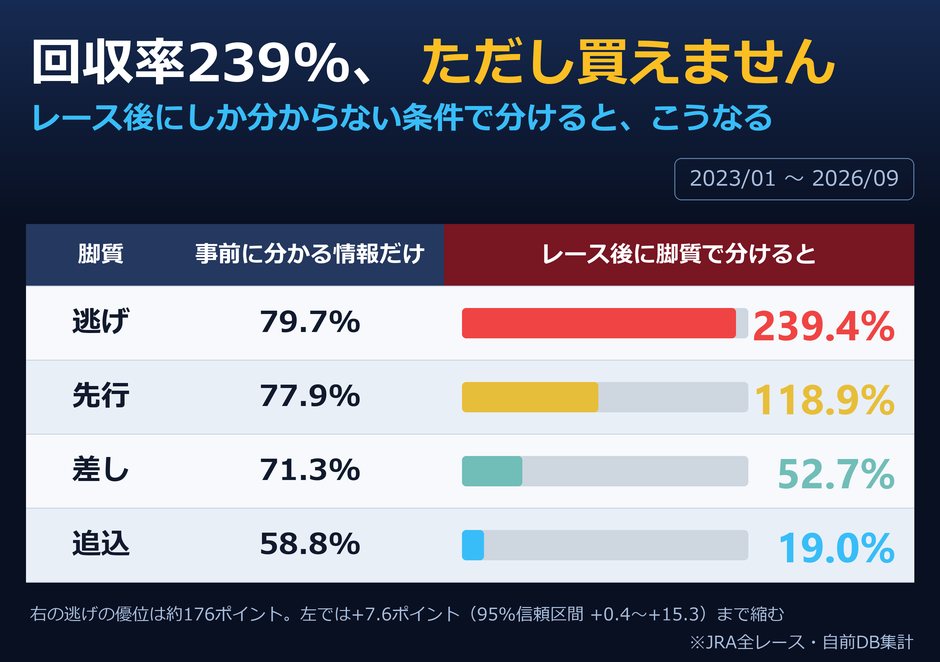
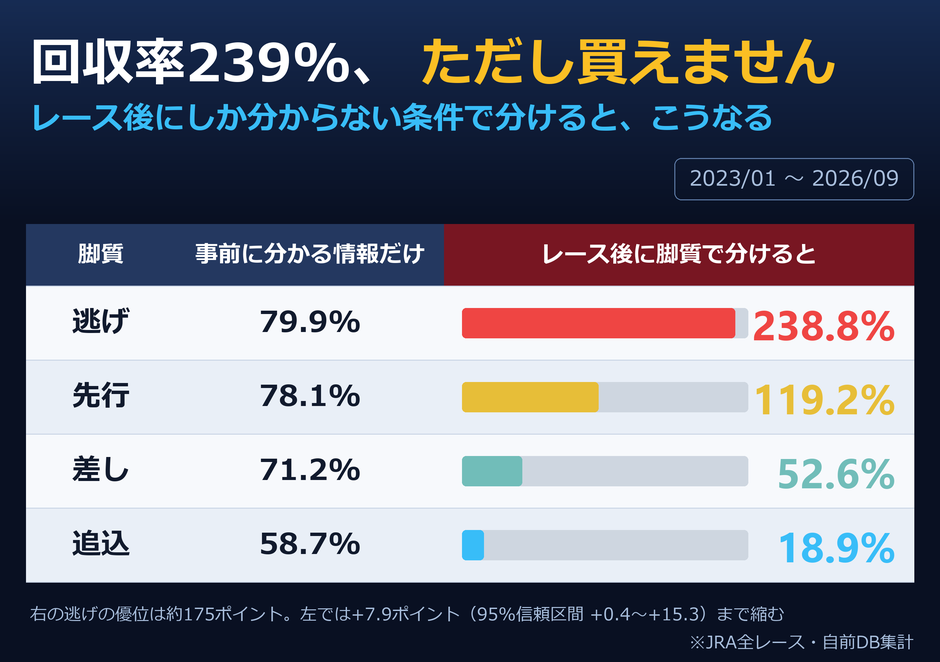
update: 20260919 の勝率予報と検証記録を反映

diff --git a/race/20260919.html b/race/20260919.html
@@ -1,0 +1,124 @@
+<!doctype html>
+<html lang="ja"><head>
+<meta charset="utf-8">
+<meta name="viewport" content="width=device-width,initial-scale=1">
+<title>2026/9/19(土)の勝率予報 — 全23レース</title>
+<meta name="description" content="2026/9/19(土)の全23レース、出走全頭の勝率をAIが発走前に計算した一覧です。">
+<meta property="og:type" content="article">
+<meta property="og:title" content="2026/9/19(土)の勝率予報 — 全23レース">
+<meta property="og:description" content="中山・阪神 全23レース、出走全頭の勝率です。すべて発走前に計算しています。">
+<meta property="og:url" content="https://akiaki4646.github.io/race/20260919.html">
+<meta property="og:image" content="https://akiaki4646.github.io/ogp_20260919.png">
+<meta name="twitter:card" content="summary_large_image">
+<style>
+:root{--bg:#0b1222;--card:#131c31;--ink:#e8eefb;--dim:#93a6c4;--sky:#38bdf8;--line:#24324e}
+*{box-sizing:border-box}
+body{margin:0;background:var(--bg);color:var(--ink);
+     font-family:-apple-system,"Segoe UI","Hiragino Kaku Gothic ProN","Noto Sans JP",sans-serif;
+     line-height:1.75}
+.wrap{max-width:760px;margin:0 auto;padding:0 20px 64px}
+header{padding:36px 0 8px}
+header img{width:100%;border-radius:14px;display:block}
+/* 見出しに本文と同じ 1.75 を当てると、和文の長い見出しが間延びして
+   モバイルではファーストビューの半分を占める (実測: h1 24.8px に行間 43.4px)。
+   見出しは 1.3 前後に締める。 */
+h1{font-size:1.55rem;margin:24px 0 6px;letter-spacing:.01em;line-height:1.35}
+h2{font-size:1.15rem;margin:40px 0 12px;padding-bottom:8px;
+   border-bottom:1px solid var(--line);line-height:1.4}
+h3{line-height:1.4}
+p{margin:12px 0}
+/* 本文は必ず --ink。--dim は注記・キャプション・補助情報だけに使う。
+   地の文に --dim を当てると、規格上のコントラストは足りていても
+   彩度の低い青が暗い青に乗って「かすむ」(トップだけ --dim になっていた)。 */
+.lead{color:var(--ink)}
+.note,figcaption,.src{color:var(--dim);font-size:.88rem}
+.card{background:var(--card);border:1px solid var(--line);border-radius:12px;padding:18px 20px;margin:18px 0}
+.kpi{display:flex;flex-wrap:wrap;gap:14px;margin:18px 0}
+.kpi div{flex:1 1 150px;background:var(--card);border:1px solid var(--line);
+         border-radius:12px;padding:14px 16px}
+/* 大きい数字をネオンのアクセント色で光らせると、統計の記録ではなく
+   ゲームのスコア表示に見える。数字は本文色にし、アクセントは
+   リンクなど「押せるもの」の合図だけに使う。 */
+.kpi b{display:block;font-size:1.5rem;color:var(--ink);line-height:1.3}
+.kpi span{color:var(--dim);font-size:.85rem}
+table{width:100%;border-collapse:collapse;margin:14px 0;font-variant-numeric:tabular-nums}
+th,td{padding:9px 8px;border-bottom:1px solid var(--line);text-align:right}
+th:first-child,td:first-child{text-align:left}
+th{color:var(--dim);font-weight:600;font-size:.85rem}
+.gap{color:var(--dim)}
+tr.thin td{color:var(--dim);opacity:.72}
+tr.thin td:first-child::after{content:" *";color:var(--dim)}
+a{color:var(--sky)}
+footer{margin-top:52px;padding-top:18px;border-top:1px solid var(--line);
+       color:var(--dim);font-size:.85rem}
+/* 発光する輪郭のカプセルボタンは煽り系サイトの語彙。
+   面で置いた落ち着いたボタンにして、角も丸めすぎない。 */
+.follow{display:flex;gap:10px;flex-wrap:wrap;margin:20px 0}
+.follow a{display:inline-block;padding:10px 16px;border:1px solid var(--line);
+         background:var(--card);border-radius:8px;color:var(--sky);
+         text-decoration:none;font-size:.9rem}
+.follow a:hover{border-color:var(--sky)}
+@media(max-width:520px){.kpi div{flex:1 1 100%}}
+
+.adbox{margin:28px 0}
+.adlabel{display:block;font-size:.72rem;color:var(--dim);letter-spacing:.08em;
+margin-bottom:6px}
+
+.race{background:var(--card);border:1px solid var(--line);border-radius:12px;
+      padding:16px 18px;margin:16px 0}
+.race h3{margin:0 0 4px;font-size:1.05rem}
+.race .meta{color:var(--dim);font-size:.85rem;margin:0 0 10px}
+.race table{margin:0}
+.race td.mk{width:2.2em;text-align:center;color:var(--sky);font-weight:700}
+.race td.no{width:2.6em;text-align:right;color:var(--dim);font-variant-numeric:tabular-nums}
+.race td.nm{text-align:left}
+.race td.pb{text-align:right;font-variant-numeric:tabular-nums;font-weight:600}
+.race tr.top td{color:var(--ink)}
+.race tr:not(.top) td{color:var(--dim)}
+.done{opacity:.55}
+.badge{display:inline-block;font-size:.72rem;border:1px solid var(--line);
+       border-radius:999px;padding:1px 8px;margin-left:6px;color:var(--dim)}
+.adslot{margin:24px 0;min-height:0}
+.nav{display:flex;gap:12px;flex-wrap:wrap;margin:18px 0}
+.nav a{display:inline-block;padding:9px 16px;border:1px solid var(--line);
+       background:var(--card);border-radius:8px;color:var(--sky);
+       text-decoration:none;font-size:.88rem}
+.nav a:hover{border-color:var(--sky)}
+.archive li{margin:6px 0}
+</style>
+<script async src="https://pagead2.googlesyndication.com/pagead/js/adsbygoogle.js?client=ca-pub-3010782230345323" crossorigin="anonymous"></script>
+<script async src="https://www.googletagmanager.com/gtag/js?id=G-JRQX40LQVN"></script>
+<script>window.dataLayer=window.dataLayer||[];function gtag(){dataLayer.push(arguments);}gtag('js',new Date());gtag('config','G-JRQX40LQVN');</script>
+</head><body><div class="wrap">
+
+<h1>2026/9/19(土) の勝率予報</h1>
+<p class="lead">中山・阪神 全23レース、出走全頭の勝率です。
+すべて<strong>発走前</strong>に計算し、そのまま公開しています。</p>
+
+<div class="nav">
+  <a href="../index.html">答え合わせの記録を見る</a>
+  <a href="./index.html">過去の予報一覧</a>
+</div>
+
+<div class="adslot"></div>
+
+<div class='race' id='061'><h3>中山1R</h3><p class='meta'>10:00 発走 / 9頭</p><table><tbody><tr class='top'><td class='mk'>◎</td><td class='no'>09</td><td class='nm'>スマートブライド</td><td class='pb'>72.1%</td></tr><tr class='top'><td class='mk'>○</td><td class='no'>01</td><td class='nm'>サリードゥ</td><td class='pb'>12.2%</td></tr><tr class='top'><td class='mk'>▲</td><td class='no'>05</td><td class='nm'>ルスデルカミーノ</td><td class='pb'>6.6%</td></tr><tr><td class='mk'></td><td class='no'>02</td><td class='nm'>ジンクピリチオン</td><td class='pb'>4.7%</td></tr><tr><td class='mk'></td><td class='no'>04</td><td class='nm'>ソナタテソーロ</td><td class='pb'>2.2%</td></tr><tr><td class='mk'></td><td class='no'>03</td><td class='nm'>ポッドエステラ</td><td class='pb'>1.1%</td></tr><tr><td class='mk'></td><td class='no'>07</td><td class='nm'>カンタベリートップ</td><td class='pb'>0.7%</td></tr><tr><td class='mk'></td><td class='no'>08</td><td class='nm'>マリノフスキー</td><td class='pb'>0.3%</td></tr><tr><td class='mk'></td><td class='no'>06</td><td class='nm'>カシノカゲマル</td><td class='pb'>0.1%</td></tr></tbody></table></div><div class='race' id='062'><h3>中山2R</h3><p class='meta'>10:30 発走 / 8頭</p><table><tbody><tr class='top'><td class='mk'>◎</td><td class='no'>04</td><td class='nm'>テンユメノオーロラ</td><td class='pb'>61.5%</td></tr><tr class='top'><td class='mk'>○</td><td class='no'>08</td><td class='nm'>アフィーリア</td><td class='pb'>19.7%</td></tr><tr class='top'><td class='mk'>▲</td><td class='no'>03</td><td class='nm'>ハイビスカス</td><td class='pb'>9.0%</td></tr><tr><td class='mk'></td><td class='no'>07</td><td class='nm'>バミューダブーケ</td><td class='pb'>4.4%</td></tr><tr><td class='mk'></td><td class='no'>06</td><td class='nm'>ロンドンコーリング</td><td class='pb'>2.2%</td></tr><tr><td class='mk'></td><td class='no'>02</td><td class='nm'>ビップルーチェ</td><td class='pb'>1.7%</td></tr><tr><td class='mk'></td><td class='no'>01</td><td class='nm'>マホロ</td><td class='pb'>1.0%</td></tr><tr><td class='mk'></td><td class='no'>05</td><td class='nm'>ピーエムリンダ</td><td class='pb'>0.5%</td></tr></tbody></table></div><div class='race' id='063'><h3>中山3R</h3><p class='meta'>11:00 発走 / 12頭</p><table><tbody><tr class='top'><td class='mk'>◎</td><td class='no'>05</td><td class='nm'>トルタパスカリーナ</td><td class='pb'>37.5%</td></tr><tr class='top'><td class='mk'>○</td><td class='no'>09</td><td class='nm'>ノルトハウゼン</td><td class='pb'>12.4%</td></tr><tr class='top'><td class='mk'>▲</td><td class='no'>11</td><td class='nm'>イニシャルポイント</td><td class='pb'>11.9%</td></tr><tr><td class='mk'></td><td class='no'>06</td><td class='nm'>コスモシグナス</td><td class='pb'>9.7%</td></tr><tr><td class='mk'></td><td class='no'>02</td><td class='nm'>セイウンウィルド</td><td class='pb'>9.7%</td></tr><tr><td class='mk'></td><td class='no'>08</td><td class='nm'>ワンキャンパス</td><td class='pb'>5.8%</td></tr><tr><td class='mk'></td><td class='no'>01</td><td class='nm'>サノノファイター</td><td class='pb'>5.8%</td></tr><tr><td class='mk'></td><td class='no'>10</td><td class='nm'>ショウナンワンパク</td><td class='pb'>4.0%</td></tr><tr><td class='mk'></td><td class='no'>03</td><td class='nm'>エルシオン</td><td class='pb'>1.3%</td></tr><tr><td class='mk'></td><td class='no'>12</td><td class='nm'>コーズサム</td><td class='pb'>1.0%</td></tr><tr><td class='mk'></td><td class='no'>04</td><td class='nm'>テイクケア</td><td class='pb'>0.6%</td></tr><tr><td class='mk'></td><td class='no'>07</td><td class='nm'>アミノショコラ</td><td class='pb'>0.4%</td></tr></tbody></table></div><div class='race' id='064'><h3>中山4R</h3><p class='meta'>11:35 発走 / 16頭</p><table><tbody><tr class='top'><td class='mk'>◎</td><td class='no'>06</td><td class='nm'>ルナロマンティカ</td><td class='pb'>18.8%</td></tr><tr class='top'><td class='mk'>○</td><td class='no'>02</td><td class='nm'>ゼーゲルン</td><td class='pb'>17.9%</td></tr><tr class='top'><td class='mk'>▲</td><td class='no'>10</td><td class='nm'>フクチャンヨシ</td><td class='pb'>11.6%</td></tr><tr><td class='mk'></td><td class='no'>01</td><td class='nm'>ロジパンドラ</td><td class='pb'>8.3%</td></tr><tr><td class='mk'></td><td class='no'>05</td><td class='nm'>シルバーノリダー</td><td class='pb'>8.2%</td></tr><tr><td class='mk'></td><td class='no'>14</td><td class='nm'>ペルラビアンカ</td><td class='pb'>7.3%</td></tr><tr><td class='mk'></td><td class='no'>13</td><td class='nm'>シクラメン</td><td class='pb'>5.2%</td></tr><tr><td class='mk'></td><td class='no'>03</td><td class='nm'>シウンハゴロモ</td><td class='pb'>4.7%</td></tr><tr><td class='mk'></td><td class='no'>09</td><td class='nm'>ニホンノヨアケゼヨ</td><td class='pb'>3.8%</td></tr><tr><td class='mk'></td><td class='no'>12</td><td class='nm'>ニシノハナカケル</td><td class='pb'>2.8%</td></tr><tr><td class='mk'></td><td class='no'>11</td><td class='nm'>プリマラクーン</td><td class='pb'>2.8%</td></tr><tr><td class='mk'></td><td class='no'>16</td><td class='nm'>キャンディメモリー</td><td class='pb'>2.8%</td></tr><tr><td class='mk'></td><td class='no'>08</td><td class='nm'>スヴァラ</td><td class='pb'>2.3%</td></tr><tr><td class='mk'></td><td class='no'>07</td><td class='nm'>アマルレイナ</td><td class='pb'>1.5%</td></tr><tr><td class='mk'></td><td class='no'>04</td><td class='nm'>サンエルディーケー</td><td class='pb'>1.4%</td></tr><tr><td class='mk'></td><td class='no'>15</td><td class='nm'>イキデイナセ</td><td class='pb'>0.9%</td></tr></tbody></table></div><div class='race' id='065'><h3>中山5R</h3><p class='meta'>12:25 発走 / 12頭</p><table><tbody><tr class='top'><td class='mk'>◎</td><td class='no'>06</td><td class='nm'>プルヴィナル</td><td class='pb'>40.1%</td></tr><tr class='top'><td class='mk'>○</td><td class='no'>02</td><td class='nm'>レインボーフライト</td><td class='pb'>30.3%</td></tr><tr class='top'><td class='mk'>▲</td><td class='no'>07</td><td class='nm'>ルージュルフラン</td><td class='pb'>7.1%</td></tr><tr><td class='mk'></td><td class='no'>10</td><td class='nm'>セイウンガレス</td><td class='pb'>4.7%</td></tr><tr><td class='mk'></td><td class='no'>09</td><td class='nm'>フレッシュオレンジ</td><td class='pb'>4.5%</td></tr><tr><td class='mk'></td><td class='no'>11</td><td class='nm'>セイウンランウェイ</td><td class='pb'>3.2%</td></tr><tr><td class='mk'></td><td class='no'>01</td><td class='nm'>ディヴァンパーレ</td><td class='pb'>2.9%</td></tr><tr><td class='mk'></td><td class='no'>03</td><td class='nm'>トパーズプレミア</td><td class='pb'>2.9%</td></tr><tr><td class='mk'></td><td class='no'>08</td><td class='nm'>ドッグズノーズ</td><td class='pb'>1.7%</td></tr><tr><td class='mk'></td><td class='no'>05</td><td class='nm'>ツェルプスト</td><td class='pb'>1.3%</td></tr><tr><td class='mk'></td><td class='no'>04</td><td class='nm'>メイダイ</td><td class='pb'>1.0%</td></tr><tr><td class='mk'></td><td class='no'>12</td><td class='nm'>バーチディダーマ</td><td class='pb'>0.5%</td></tr></tbody></table></div><div class='race' id='066'><h3>中山6R</h3><p class='meta'>12:55 発走 / 12頭</p><table><tbody><tr class='top'><td class='mk'>◎</td><td class='no'>10</td><td class='nm'>ユウライクスター</td><td class='pb'>39.3%</td></tr><tr class='top'><td class='mk'>○</td><td class='no'>11</td><td class='nm'>ブレイズリー</td><td class='pb'>14.3%</td></tr><tr class='top'><td class='mk'>▲</td><td class='no'>12</td><td class='nm'>イトウカカリチョウ</td><td class='pb'>10.3%</td></tr><tr><td class='mk'></td><td class='no'>09</td><td class='nm'>サクセスメロディー</td><td class='pb'>8.6%</td></tr><tr><td class='mk'></td><td class='no'>06</td><td class='nm'>ライジングファイト</td><td class='pb'>6.9%</td></tr><tr><td class='mk'></td><td class='no'>03</td><td class='nm'>エクランレーヴ</td><td class='pb'>5.4%</td></tr><tr><td class='mk'></td><td class='no'>02</td><td class='nm'>キタノエフロレス</td><td class='pb'>3.8%</td></tr><tr><td class='mk'></td><td class='no'>08</td><td class='nm'>ローブリッター</td><td class='pb'>3.1%</td></tr><tr><td class='mk'></td><td class='no'>05</td><td class='nm'>ニシノイケガミ</td><td class='pb'>3.1%</td></tr><tr><td class='mk'></td><td class='no'>04</td><td class='nm'>ルスカーレット</td><td class='pb'>1.9%</td></tr><tr><td class='mk'></td><td class='no'>01</td><td class='nm'>ムードメーカー</td><td class='pb'>1.9%</td></tr><tr><td class='mk'></td><td class='no'>07</td><td class='nm'>ケイツーズウォティ</td><td class='pb'>1.1%</td></tr></tbody></table></div><div class='race' id='067'><h3>中山7R</h3><p class='meta'>13:25 発走 / 14頭</p><table><tbody><tr class='top'><td class='mk'>◎</td><td class='no'>14</td><td class='nm'>デールエルバハリ</td><td class='pb'>20.5%</td></tr><tr class='top'><td class='mk'>○</td><td class='no'>06</td><td class='nm'>エクストラプッシュ</td><td class='pb'>13.4%</td></tr><tr class='top'><td class='mk'>▲</td><td class='no'>05</td><td class='nm'>サトノリアン</td><td class='pb'>13.3%</td></tr><tr><td class='mk'></td><td class='no'>02</td><td class='nm'>ステイアンビシャス</td><td class='pb'>11.4%</td></tr><tr><td class='mk'></td><td class='no'>11</td><td class='nm'>タケルゴールド</td><td class='pb'>7.1%</td></tr><tr><td class='mk'></td><td class='no'>09</td><td class='nm'>ブライトラン</td><td class='pb'>6.4%</td></tr><tr><td class='mk'></td><td class='no'>03</td><td class='nm'>ブレイクザアイス</td><td class='pb'>6.4%</td></tr><tr><td class='mk'></td><td class='no'>12</td><td class='nm'>リオンサーガ</td><td class='pb'>5.3%</td></tr><tr><td class='mk'></td><td class='no'>04</td><td class='nm'>ターフクリスタル</td><td class='pb'>4.3%</td></tr><tr><td class='mk'></td><td class='no'>01</td><td class='nm'>ダイシンパルス</td><td class='pb'>3.2%</td></tr><tr><td class='mk'></td><td class='no'>10</td><td class='nm'>ゴーントゥファー</td><td class='pb'>2.4%</td></tr><tr><td class='mk'></td><td class='no'>13</td><td class='nm'>モヴレクス</td><td class='pb'>2.2%</td></tr><tr><td class='mk'></td><td class='no'>08</td><td class='nm'>ノーマジック</td><td class='pb'>2.1%</td></tr><tr><td class='mk'></td><td class='no'>07</td><td class='nm'>ラブトゥエニイワン</td><td class='pb'>2.0%</td></tr></tbody></table></div><div class='race' id='068'><h3>中山8R</h3><p class='meta'>13:55 発走 / 14頭</p><table><tbody><tr class='top'><td class='mk'>◎</td><td class='no'>05</td><td class='nm'>ヴァレンティーニ</td><td class='pb'>24.3%</td></tr><tr class='top'><td class='mk'>○</td><td class='no'>06</td><td class='nm'>マタミカンサン</td><td class='pb'>22.8%</td></tr><tr class='top'><td class='mk'>▲</td><td class='no'>07</td><td class='nm'>アスコットヴェール</td><td class='pb'>10.0%</td></tr><tr><td class='mk'></td><td class='no'>12</td><td class='nm'>キタノエピックアン</td><td class='pb'>8.6%</td></tr><tr><td class='mk'></td><td class='no'>01</td><td class='nm'>ティルベリー</td><td class='pb'>7.5%</td></tr><tr><td class='mk'></td><td class='no'>09</td><td class='nm'>エウテルペ</td><td class='pb'>6.6%</td></tr><tr><td class='mk'></td><td class='no'>13</td><td class='nm'>エコロストーム</td><td class='pb'>6.0%</td></tr><tr><td class='mk'></td><td class='no'>03</td><td class='nm'>ルージュカエラ</td><td class='pb'>4.0%</td></tr><tr><td class='mk'></td><td class='no'>08</td><td class='nm'>デルマホダカ</td><td class='pb'>3.4%</td></tr><tr><td class='mk'></td><td class='no'>04</td><td class='nm'>カサビセンス</td><td class='pb'>2.8%</td></tr><tr><td class='mk'></td><td class='no'>14</td><td class='nm'>ペプロス</td><td class='pb'>2.0%</td></tr><tr><td class='mk'></td><td class='no'>11</td><td class='nm'>ジャストキュート</td><td class='pb'>0.7%</td></tr><tr><td class='mk'></td><td class='no'>10</td><td class='nm'>ビスケットマリー</td><td class='pb'>0.7%</td></tr><tr><td class='mk'></td><td class='no'>02</td><td class='nm'>テンクウハット</td><td class='pb'>0.5%</td></tr></tbody></table></div><div class='race' id='069'><h3>中山9R</h3><p class='meta'>14:25 発走 / 9頭</p><table><tbody><tr class='top'><td class='mk'>◎</td><td class='no'>02</td><td class='nm'>ジャスパートレノ</td><td class='pb'>32.1%</td></tr><tr class='top'><td class='mk'>○</td><td class='no'>06</td><td class='nm'>ジオパークカツキ</td><td class='pb'>20.5%</td></tr><tr class='top'><td class='mk'>▲</td><td class='no'>03</td><td class='nm'>ダイシンドラゴン</td><td class='pb'>9.5%</td></tr><tr><td class='mk'></td><td class='no'>05</td><td class='nm'>ダイメイビッグボス</td><td class='pb'>8.0%</td></tr><tr><td class='mk'></td><td class='no'>04</td><td class='nm'>セタキト</td><td class='pb'>7.9%</td></tr><tr><td class='mk'></td><td class='no'>09</td><td class='nm'>ショウナンハーヴェ</td><td class='pb'>7.9%</td></tr><tr><td class='mk'></td><td class='no'>01</td><td class='nm'>マルモリムソウ</td><td class='pb'>5.5%</td></tr><tr><td class='mk'></td><td class='no'>08</td><td class='nm'>ニシノイサリビ</td><td class='pb'>5.0%</td></tr><tr><td class='mk'></td><td class='no'>07</td><td class='nm'>ピクニックマーチ</td><td class='pb'>3.6%</td></tr></tbody></table></div><div class='race' id='0610'><h3>中山10R</h3><p class='meta'>15:05 発走 / 12頭</p><table><tbody><tr class='top'><td class='mk'>◎</td><td class='no'>09</td><td class='nm'>アロンズロッド</td><td class='pb'>31.5%</td></tr><tr class='top'><td class='mk'>○</td><td class='no'>02</td><td class='nm'>トリニティ</td><td class='pb'>16.0%</td></tr><tr class='top'><td class='mk'>▲</td><td class='no'>11</td><td class='nm'>キンググローリー</td><td class='pb'>13.8%</td></tr><tr><td class='mk'></td><td class='no'>12</td><td class='nm'>マイバレンタイン</td><td class='pb'>10.0%</td></tr><tr><td class='mk'></td><td class='no'>01</td><td class='nm'>ノラリクラリ</td><td class='pb'>7.5%</td></tr><tr><td class='mk'></td><td class='no'>03</td><td class='nm'>カレンラップスター</td><td class='pb'>5.0%</td></tr><tr><td class='mk'></td><td class='no'>08</td><td class='nm'>リュクスパトロール</td><td class='pb'>4.7%</td></tr><tr><td class='mk'></td><td class='no'>06</td><td class='nm'>ウイナーズナイン</td><td class='pb'>4.3%</td></tr><tr><td class='mk'></td><td class='no'>10</td><td class='nm'>ダノンピクチャー</td><td class='pb'>3.4%</td></tr><tr><td class='mk'></td><td class='no'>07</td><td class='nm'>ブリヤディアマンテ</td><td class='pb'>1.3%</td></tr><tr><td class='mk'></td><td class='no'>05</td><td class='nm'>レイヤードレッド</td><td class='pb'>1.3%</td></tr><tr><td class='mk'></td><td class='no'>04</td><td class='nm'>モルトマエストーソ</td><td class='pb'>1.1%</td></tr></tbody></table></div><div class='race' id='0611'><h3>中山11R</h3><p class='meta'>15:45 発走 / 14頭</p><table><tbody><tr class='top'><td class='mk'>◎</td><td class='no'>13</td><td class='nm'>ゴールデンクラウド</td><td class='pb'>23.9%</td></tr><tr class='top'><td class='mk'>○</td><td class='no'>07</td><td class='nm'>マーズオデッセイ</td><td class='pb'>16.0%</td></tr><tr class='top'><td class='mk'>▲</td><td class='no'>04</td><td class='nm'>イムホテプ</td><td class='pb'>10.9%</td></tr><tr><td class='mk'></td><td class='no'>08</td><td class='nm'>アクションプラン</td><td class='pb'>8.1%</td></tr><tr><td class='mk'></td><td class='no'>03</td><td class='nm'>モンブランミノル</td><td class='pb'>8.1%</td></tr><tr><td class='mk'></td><td class='no'>09</td><td class='nm'>ドバイブルース</td><td class='pb'>8.1%</td></tr><tr><td class='mk'></td><td class='no'>14</td><td class='nm'>ハビレ</td><td class='pb'>6.4%</td></tr><tr><td class='mk'></td><td class='no'>02</td><td class='nm'>イミグラントソング</td><td class='pb'>6.4%</td></tr><tr><td class='mk'></td><td class='no'>05</td><td class='nm'>カンピオーネ</td><td class='pb'>3.2%</td></tr><tr><td class='mk'></td><td class='no'>11</td><td class='nm'>バラジ</td><td class='pb'>2.1%</td></tr><tr><td class='mk'></td><td class='no'>10</td><td class='nm'>ショウナンライシン</td><td class='pb'>2.1%</td></tr><tr><td class='mk'></td><td class='no'>01</td><td class='nm'>ハナウマビーチ</td><td class='pb'>2.1%</td></tr><tr><td class='mk'></td><td class='no'>06</td><td class='nm'>レアンダー</td><td class='pb'>1.4%</td></tr><tr><td class='mk'></td><td class='no'>12</td><td class='nm'>マンマリアーレ</td><td class='pb'>1.2%</td></tr></tbody></table></div><div class='race' id='0612'><h3>中山12R</h3><p class='meta'>16:30 発走 / 16頭</p><table><tbody><tr class='top'><td class='mk'>◎</td><td class='no'>15</td><td class='nm'>ロードトライデント</td><td class='pb'>15.6%</td></tr><tr class='top'><td class='mk'>○</td><td class='no'>05</td><td class='nm'>エアサロメ</td><td class='pb'>14.2%</td></tr><tr class='top'><td class='mk'>▲</td><td class='no'>01</td><td class='nm'>シュヴァルツシルト</td><td class='pb'>12.0%</td></tr><tr><td class='mk'></td><td class='no'>11</td><td class='nm'>ダノンゴーイチ</td><td class='pb'>10.2%</td></tr><tr><td class='mk'></td><td class='no'>07</td><td class='nm'>ラベンダーヘイズ</td><td class='pb'>8.8%</td></tr><tr><td class='mk'></td><td class='no'>08</td><td class='nm'>タイセイブルーム</td><td class='pb'>7.7%</td></tr><tr><td class='mk'></td><td class='no'>06</td><td class='nm'>トモジャオーリー</td><td class='pb'>6.2%</td></tr><tr><td class='mk'></td><td class='no'>16</td><td class='nm'>ミスバレンシア</td><td class='pb'>5.4%</td></tr><tr><td class='mk'></td><td class='no'>13</td><td class='nm'>トウタツ</td><td class='pb'>5.4%</td></tr><tr><td class='mk'></td><td class='no'>02</td><td class='nm'>ヴェネチアンキング</td><td class='pb'>3.5%</td></tr><tr><td class='mk'></td><td class='no'>03</td><td class='nm'>リアライズタキオン</td><td class='pb'>2.9%</td></tr><tr><td class='mk'></td><td class='no'>09</td><td class='nm'>プルシャプラ</td><td class='pb'>2.5%</td></tr><tr><td class='mk'></td><td class='no'>10</td><td class='nm'>アースミューズ</td><td class='pb'>2.1%</td></tr><tr><td class='mk'></td><td class='no'>12</td><td class='nm'>ナンナンプー</td><td class='pb'>1.4%</td></tr><tr><td class='mk'></td><td class='no'>04</td><td class='nm'>ベアハンドキャッチ</td><td class='pb'>1.4%</td></tr><tr><td class='mk'></td><td class='no'>14</td><td class='nm'>マロンカラノテガミ</td><td class='pb'>0.9%</td></tr></tbody></table></div><div class='race' id='091'><h3>阪神1R</h3><p class='meta'>09:45 発走 / 8頭</p><table><tbody><tr class='top'><td class='mk'>◎</td><td class='no'>04</td><td class='nm'>ロンバルディア</td><td class='pb'>30.3%</td></tr><tr class='top'><td class='mk'>○</td><td class='no'>03</td><td class='nm'>ホシヲミテルンナ</td><td class='pb'>22.6%</td></tr><tr class='top'><td class='mk'>▲</td><td class='no'>06</td><td class='nm'>ボビーザグレート</td><td class='pb'>21.2%</td></tr><tr><td class='mk'></td><td class='no'>01</td><td class='nm'>フラッシングルビー</td><td class='pb'>11.7%</td></tr><tr><td class='mk'></td><td class='no'>05</td><td class='nm'>コパノマハロ</td><td class='pb'>8.0%</td></tr><tr><td class='mk'></td><td class='no'>02</td><td class='nm'>ルボワ</td><td class='pb'>3.8%</td></tr><tr><td class='mk'></td><td class='no'>08</td><td class='nm'>ベルウッドワタル</td><td class='pb'>1.3%</td></tr><tr><td class='mk'></td><td class='no'>07</td><td class='nm'>アイシテルヨナオミ</td><td class='pb'>1.3%</td></tr></tbody></table></div><div class='race' id='092'><h3>阪神2R</h3><p class='meta'>10:15 発走 / 8頭</p><table><tbody><tr class='top'><td class='mk'>◎</td><td class='no'>08</td><td class='nm'>サイモンレガシー</td><td class='pb'>53.4%</td></tr><tr class='top'><td class='mk'>○</td><td class='no'>06</td><td class='nm'>アストラルライト</td><td class='pb'>18.9%</td></tr><tr class='top'><td class='mk'>▲</td><td class='no'>04</td><td class='nm'>ロードフローリス</td><td class='pb'>15.6%</td></tr><tr><td class='mk'></td><td class='no'>05</td><td class='nm'>ソウカイファンキー</td><td class='pb'>4.9%</td></tr><tr><td class='mk'></td><td class='no'>03</td><td class='nm'>サイモンジェセル</td><td class='pb'>3.0%</td></tr><tr><td class='mk'></td><td class='no'>01</td><td class='nm'>マサノブルスカイ</td><td class='pb'>2.5%</td></tr><tr><td class='mk'></td><td class='no'>02</td><td class='nm'>ドナズエクリプス</td><td class='pb'>1.2%</td></tr><tr><td class='mk'></td><td class='no'>07</td><td class='nm'>ケイジャーダ</td><td class='pb'>0.5%</td></tr></tbody></table></div><div class='race' id='093'><h3>阪神3R</h3><p class='meta'>10:45 発走 / 11頭</p><table><tbody><tr class='top'><td class='mk'>◎</td><td class='no'>03</td><td class='nm'>アルテクィーン</td><td class='pb'>27.8%</td></tr><tr class='top'><td class='mk'>○</td><td class='no'>05</td><td class='nm'>エルピスノヴァ</td><td class='pb'>23.0%</td></tr><tr class='top'><td class='mk'>▲</td><td class='no'>01</td><td class='nm'>パストザクラウン</td><td class='pb'>10.2%</td></tr><tr><td class='mk'></td><td class='no'>08</td><td class='nm'>トスカ</td><td class='pb'>8.8%</td></tr><tr><td class='mk'></td><td class='no'>02</td><td class='nm'>クリコキアナ</td><td class='pb'>6.8%</td></tr><tr><td class='mk'></td><td class='no'>10</td><td class='nm'>シャプシュ</td><td class='pb'>6.2%</td></tr><tr><td class='mk'></td><td class='no'>07</td><td class='nm'>ヴァニーユ</td><td class='pb'>6.2%</td></tr><tr><td class='mk'></td><td class='no'>11</td><td class='nm'>スマートライナー</td><td class='pb'>4.8%</td></tr><tr><td class='mk'></td><td class='no'>09</td><td class='nm'>マイフレダ</td><td class='pb'>3.3%</td></tr><tr><td class='mk'></td><td class='no'>06</td><td class='nm'>クリノライジング</td><td class='pb'>1.4%</td></tr><tr><td class='mk'></td><td class='no'>04</td><td class='nm'>ツーエムマドンナ</td><td class='pb'>1.4%</td></tr></tbody></table></div><div class='race' id='095'><h3>阪神5R</h3><p class='meta'>12:10 発走 / 10頭</p><table><tbody><tr class='top'><td class='mk'>◎</td><td class='no'>08</td><td class='nm'>インパルスドライブ</td><td class='pb'>51.4%</td></tr><tr class='top'><td class='mk'>○</td><td class='no'>02</td><td class='nm'>イルドボーテ</td><td class='pb'>15.2%</td></tr><tr class='top'><td class='mk'>▲</td><td class='no'>05</td><td class='nm'>アリアサイン</td><td class='pb'>8.3%</td></tr><tr><td class='mk'></td><td class='no'>09</td><td class='nm'>ジャスパーレーブ</td><td class='pb'>6.3%</td></tr><tr><td class='mk'></td><td class='no'>03</td><td class='nm'>テムスピード</td><td class='pb'>6.3%</td></tr><tr><td class='mk'></td><td class='no'>07</td><td class='nm'>ウォータージェード</td><td class='pb'>4.5%</td></tr><tr><td class='mk'></td><td class='no'>06</td><td class='nm'>セイフェリーチェ</td><td class='pb'>3.5%</td></tr><tr><td class='mk'></td><td class='no'>01</td><td class='nm'>ユウスカイ</td><td class='pb'>2.2%</td></tr><tr><td class='mk'></td><td class='no'>10</td><td class='nm'>シーザットガール</td><td class='pb'>1.3%</td></tr><tr><td class='mk'></td><td class='no'>04</td><td class='nm'>グッデイチャイカ</td><td class='pb'>1.0%</td></tr></tbody></table></div><div class='race' id='096'><h3>阪神6R</h3><p class='meta'>12:40 発走 / 11頭</p><table><tbody><tr class='top'><td class='mk'>◎</td><td class='no'>10</td><td class='nm'>アンドレバローズ</td><td class='pb'>29.5%</td></tr><tr class='top'><td class='mk'>○</td><td class='no'>11</td><td class='nm'>ピースインサイト</td><td class='pb'>12.8%</td></tr><tr class='top'><td class='mk'>▲</td><td class='no'>03</td><td class='nm'>ジオフィージブル</td><td class='pb'>12.8%</td></tr><tr><td class='mk'></td><td class='no'>07</td><td class='nm'>テムレーション</td><td class='pb'>9.3%</td></tr><tr><td class='mk'></td><td class='no'>06</td><td class='nm'>スナークモネ</td><td class='pb'>8.6%</td></tr><tr><td class='mk'></td><td class='no'>05</td><td class='nm'>マーノマエストロ</td><td class='pb'>7.7%</td></tr><tr><td class='mk'></td><td class='no'>08</td><td class='nm'>キャミソール</td><td class='pb'>6.2%</td></tr><tr><td class='mk'></td><td class='no'>04</td><td class='nm'>エヴァサンライズ</td><td class='pb'>5.4%</td></tr><tr><td class='mk'></td><td class='no'>02</td><td class='nm'>ベヒル</td><td class='pb'>3.1%</td></tr><tr><td class='mk'></td><td class='no'>01</td><td class='nm'>ベンゲル</td><td class='pb'>3.1%</td></tr><tr><td class='mk'></td><td class='no'>09</td><td class='nm'>ヤマカツチャーリー</td><td class='pb'>1.4%</td></tr></tbody></table></div><div class='race' id='097'><h3>阪神7R</h3><p class='meta'>13:10 発走 / 12頭</p><table><tbody><tr class='top'><td class='mk'>◎</td><td class='no'>02</td><td class='nm'>アロマフェリス</td><td class='pb'>16.6%</td></tr><tr class='top'><td class='mk'>○</td><td class='no'>01</td><td class='nm'>ボンドマティーニ</td><td class='pb'>16.4%</td></tr><tr class='top'><td class='mk'>▲</td><td class='no'>09</td><td class='nm'>ゴールドアクセス</td><td class='pb'>10.9%</td></tr><tr><td class='mk'></td><td class='no'>08</td><td class='nm'>タガノアルトゥーラ</td><td class='pb'>10.5%</td></tr><tr><td class='mk'></td><td class='no'>06</td><td class='nm'>フィエールシャンテ</td><td class='pb'>9.2%</td></tr><tr><td class='mk'></td><td class='no'>04</td><td class='nm'>ベルシュヴァル</td><td class='pb'>8.8%</td></tr><tr><td class='mk'></td><td class='no'>07</td><td class='nm'>ストレートブラック</td><td class='pb'>7.7%</td></tr><tr><td class='mk'></td><td class='no'>10</td><td class='nm'>ロングホリデー</td><td class='pb'>5.1%</td></tr><tr><td class='mk'></td><td class='no'>11</td><td class='nm'>サトノビダーヤ</td><td class='pb'>4.1%</td></tr><tr><td class='mk'></td><td class='no'>12</td><td class='nm'>ディアーモルタル</td><td class='pb'>3.8%</td></tr><tr><td class='mk'></td><td class='no'>05</td><td class='nm'>ラッキーシグネチャ</td><td class='pb'>3.5%</td></tr><tr><td class='mk'></td><td class='no'>03</td><td class='nm'>パンチャマハブータ</td><td class='pb'>3.5%</td></tr></tbody></table></div><div class='race' id='098'><h3>阪神8R</h3><p class='meta'>13:40 発走 / 6頭</p><table><tbody><tr class='top'><td class='mk'>◎</td><td class='no'>02</td><td class='nm'>ジーティーサクラ</td><td class='pb'>75.5%</td></tr><tr class='top'><td class='mk'>○</td><td class='no'>06</td><td class='nm'>ブラッドバローズ</td><td class='pb'>9.7%</td></tr><tr class='top'><td class='mk'>▲</td><td class='no'>01</td><td class='nm'>シティオブドリーム</td><td class='pb'>7.2%</td></tr><tr><td class='mk'></td><td class='no'>05</td><td class='nm'>メイショウセイクウ</td><td class='pb'>6.5%</td></tr><tr><td class='mk'></td><td class='no'>04</td><td class='nm'>ベルメサージュ</td><td class='pb'>0.6%</td></tr><tr><td class='mk'></td><td class='no'>03</td><td class='nm'>テングカゼ</td><td class='pb'>0.6%</td></tr></tbody></table></div><div class='race' id='099'><h3>阪神9R</h3><p class='meta'>14:10 発走 / 14頭</p><table><tbody><tr class='top'><td class='mk'>◎</td><td class='no'>14</td><td class='nm'>シュネルアンジュ</td><td class='pb'>34.0%</td></tr><tr class='top'><td class='mk'>○</td><td class='no'>03</td><td class='nm'>リーチグローリー</td><td class='pb'>15.9%</td></tr><tr class='top'><td class='mk'>▲</td><td class='no'>05</td><td class='nm'>ドリームキャリー</td><td class='pb'>8.7%</td></tr><tr><td class='mk'></td><td class='no'>13</td><td class='nm'>ラグナトーレ</td><td class='pb'>6.9%</td></tr><tr><td class='mk'></td><td class='no'>04</td><td class='nm'>ミティリーニ</td><td class='pb'>6.3%</td></tr><tr><td class='mk'></td><td class='no'>09</td><td class='nm'>ガイラルディア</td><td class='pb'>4.9%</td></tr><tr><td class='mk'></td><td class='no'>08</td><td class='nm'>ナムラハリス</td><td class='pb'>4.9%</td></tr><tr><td class='mk'></td><td class='no'>02</td><td class='nm'>レザーアンドレース</td><td class='pb'>4.3%</td></tr><tr><td class='mk'></td><td class='no'>10</td><td class='nm'>メイショウアカリ</td><td class='pb'>4.3%</td></tr><tr><td class='mk'></td><td class='no'>07</td><td class='nm'>フィデリス</td><td class='pb'>2.6%</td></tr><tr><td class='mk'></td><td class='no'>12</td><td class='nm'>リアンクトワ</td><td class='pb'>2.3%</td></tr><tr><td class='mk'></td><td class='no'>11</td><td class='nm'>メイショウウメゴチ</td><td class='pb'>1.9%</td></tr><tr><td class='mk'></td><td class='no'>06</td><td class='nm'>レザンクレール</td><td class='pb'>1.4%</td></tr><tr><td class='mk'></td><td class='no'>01</td><td class='nm'>シゲルオトヒメ</td><td class='pb'>1.4%</td></tr></tbody></table></div><div class='race' id='0910'><h3>阪神10R</h3><p class='meta'>14:50 発走 / 15頭</p><table><tbody><tr class='top'><td class='mk'>◎</td><td class='no'>06</td><td class='nm'>リヴァイ</td><td class='pb'>34.6%</td></tr><tr class='top'><td class='mk'>○</td><td class='no'>04</td><td class='nm'>ノボリリア</td><td class='pb'>14.7%</td></tr><tr class='top'><td class='mk'>▲</td><td class='no'>07</td><td class='nm'>タガノアンファン</td><td class='pb'>10.8%</td></tr><tr><td class='mk'></td><td class='no'>01</td><td class='nm'>タマモブラウンタイ</td><td class='pb'>8.8%</td></tr><tr><td class='mk'></td><td class='no'>02</td><td class='nm'>スネーフリンガ</td><td class='pb'>8.1%</td></tr><tr><td class='mk'></td><td class='no'>05</td><td class='nm'>ダノンキラウェア</td><td class='pb'>6.4%</td></tr><tr><td class='mk'></td><td class='no'>10</td><td class='nm'>ヒーローインチーフ</td><td class='pb'>4.3%</td></tr><tr><td class='mk'></td><td class='no'>11</td><td class='nm'>ミキノバカラ</td><td class='pb'>2.7%</td></tr><tr><td class='mk'></td><td class='no'>03</td><td class='nm'>ハルオーブ</td><td class='pb'>2.4%</td></tr><tr><td class='mk'></td><td class='no'>15</td><td class='nm'>インフローレ</td><td class='pb'>1.9%</td></tr><tr><td class='mk'></td><td class='no'>13</td><td class='nm'>ウチュウノセカイ</td><td class='pb'>1.9%</td></tr><tr><td class='mk'></td><td class='no'>14</td><td class='nm'>ヤマニンレセディ</td><td class='pb'>1.4%</td></tr><tr><td class='mk'></td><td class='no'>08</td><td class='nm'>サンライズプルート</td><td class='pb'>0.9%</td></tr><tr><td class='mk'></td><td class='no'>09</td><td class='nm'>ジューンキートス</td><td class='pb'>0.5%</td></tr><tr><td class='mk'></td><td class='no'>12</td><td class='nm'>ビーアイフォルテ</td><td class='pb'>0.5%</td></tr></tbody></table></div><div class='race' id='0911'><h3>阪神11R</h3><p class='meta'>15:30 発走 / 16頭</p><table><tbody><tr class='top'><td class='mk'>◎</td><td class='no'>15</td><td class='nm'>エブリーポッシブル</td><td class='pb'>29.6%</td></tr><tr class='top'><td class='mk'>○</td><td class='no'>04</td><td class='nm'>ニューオーリンズ</td><td class='pb'>16.7%</td></tr><tr class='top'><td class='mk'>▲</td><td class='no'>06</td><td class='nm'>メイショウツヨキ</td><td class='pb'>9.3%</td></tr><tr><td class='mk'></td><td class='no'>07</td><td class='nm'>ハクサンアイリス</td><td class='pb'>8.6%</td></tr><tr><td class='mk'></td><td class='no'>09</td><td class='nm'>リサシテーション</td><td class='pb'>8.6%</td></tr><tr><td class='mk'></td><td class='no'>05</td><td class='nm'>サンダーバース</td><td class='pb'>5.1%</td></tr><tr><td class='mk'></td><td class='no'>08</td><td class='nm'>キャピタルサックス</td><td class='pb'>4.5%</td></tr><tr><td class='mk'></td><td class='no'>10</td><td class='nm'>カルパ</td><td class='pb'>3.9%</td></tr><tr><td class='mk'></td><td class='no'>11</td><td class='nm'>エムズマインド</td><td class='pb'>3.6%</td></tr><tr><td class='mk'></td><td class='no'>16</td><td class='nm'>シゲルソロソロ</td><td class='pb'>3.1%</td></tr><tr><td class='mk'></td><td class='no'>14</td><td class='nm'>タイセイミッション</td><td class='pb'>1.9%</td></tr><tr><td class='mk'></td><td class='no'>01</td><td class='nm'>テイエムヒショウ</td><td class='pb'>1.4%</td></tr><tr><td class='mk'></td><td class='no'>03</td><td class='nm'>マッシャーブルム</td><td class='pb'>1.1%</td></tr><tr><td class='mk'></td><td class='no'>02</td><td class='nm'>トゥロン</td><td class='pb'>1.1%</td></tr><tr><td class='mk'></td><td class='no'>13</td><td class='nm'>トウカイポワール</td><td class='pb'>0.9%</td></tr><tr><td class='mk'></td><td class='no'>12</td><td class='nm'>ケイアイメキラ</td><td class='pb'>0.6%</td></tr></tbody></table></div><div class='race' id='0912'><h3>阪神12R</h3><p class='meta'>16:10 発走 / 16頭</p><table><tbody><tr class='top'><td class='mk'>◎</td><td class='no'>14</td><td class='nm'>エイユーサクラ</td><td class='pb'>23.7%</td></tr><tr class='top'><td class='mk'>○</td><td class='no'>16</td><td class='nm'>ロードヴァルカン</td><td class='pb'>13.1%</td></tr><tr class='top'><td class='mk'>▲</td><td class='no'>05</td><td class='nm'>マダムイグレイン</td><td class='pb'>10.5%</td></tr><tr><td class='mk'></td><td class='no'>02</td><td class='nm'>キャッチアシーフ</td><td class='pb'>10.5%</td></tr><tr><td class='mk'></td><td class='no'>04</td><td class='nm'>ワイルドブッター</td><td class='pb'>8.8%</td></tr><tr><td class='mk'></td><td class='no'>15</td><td class='nm'>セガンティーニ</td><td class='pb'>5.2%</td></tr><tr><td class='mk'></td><td class='no'>01</td><td class='nm'>ダイヤモンド</td><td class='pb'>5.2%</td></tr><tr><td class='mk'></td><td class='no'>13</td><td class='nm'>リトセア</td><td class='pb'>5.0%</td></tr><tr><td class='mk'></td><td class='no'>08</td><td class='nm'>サヨノパララックス</td><td class='pb'>3.6%</td></tr><tr><td class='mk'></td><td class='no'>06</td><td class='nm'>セイウンバジリスク</td><td class='pb'>3.6%</td></tr><tr><td class='mk'></td><td class='no'>07</td><td class='nm'>ダディーズアイル</td><td class='pb'>3.2%</td></tr><tr><td class='mk'></td><td class='no'>03</td><td class='nm'>グラスゴー</td><td class='pb'>3.2%</td></tr><tr><td class='mk'></td><td class='no'>11</td><td class='nm'>レジェンダリーデイ</td><td class='pb'>1.4%</td></tr><tr><td class='mk'></td><td class='no'>09</td><td class='nm'>レオナルドスター</td><td class='pb'>1.4%</td></tr><tr><td class='mk'></td><td class='no'>12</td><td class='nm'>フェゲフォイア</td><td class='pb'>0.8%</td></tr><tr><td class='mk'></td><td class='no'>10</td><td class='nm'>パワポケビー</td><td class='pb'>0.5%</td></tr></tbody></table></div>
+
+<div class="adslot"></div>
+
+<h2>この数字の読み方</h2>
+<p>「勝率30%」は、<strong>同じ予報を100回出したら30回前後勝つ</strong>という意味です。
+天気予報の降水確率と同じ読み方をします。
+実際にそのとおりになっているかは<a href="../index.html">答え合わせの記録</a>で公開しています。</p>
+
+<div class="nav">
+  <a href="https://x.com/shoritsu_yoho">Xで毎日の予報を受け取る</a>
+  <a href="https://note.com/shoritsu_yoho">noteで読む</a>
+</div>
+
+<footer>
+<p>本記事の数値は自作の機械学習モデルの出力です。20歳未満の方は馬券を購入できません。</p>
+<p>生成 2026/09/19 09:07</p>
+<p><a href="../about.html">運営者情報</a>　|　<a href="../privacy.html">プライバシーポリシー</a>　|　<a href="../contact.html">お問い合わせ</a></p>
+</footer>
+</div></body></html>

diff --git a/race/index.html b/race/index.html
@@ -13,15 +13,27 @@ body{margin:0;background:var(--bg);color:var(--ink);
 .wrap{max-width:760px;margin:0 auto;padding:0 20px 64px}
 header{padding:36px 0 8px}
 header img{width:100%;border-radius:14px;display:block}
-h1{font-size:1.55rem;margin:24px 0 6px;letter-spacing:.01em}
-h2{font-size:1.15rem;margin:40px 0 12px;padding-bottom:8px;border-bottom:1px solid var(--line)}
+/* 見出しに本文と同じ 1.75 を当てると、和文の長い見出しが間延びして
+   モバイルではファーストビューの半分を占める (実測: h1 24.8px に行間 43.4px)。
+   見出しは 1.3 前後に締める。 */
+h1{font-size:1.55rem;margin:24px 0 6px;letter-spacing:.01em;line-height:1.35}
+h2{font-size:1.15rem;margin:40px 0 12px;padding-bottom:8px;
+   border-bottom:1px solid var(--line);line-height:1.4}
+h3{line-height:1.4}
 p{margin:12px 0}
-.lead{color:var(--dim)}
+/* 本文は必ず --ink。--dim は注記・キャプション・補助情報だけに使う。
+   地の文に --dim を当てると、規格上のコントラストは足りていても
+   彩度の低い青が暗い青に乗って「かすむ」(トップだけ --dim になっていた)。 */
+.lead{color:var(--ink)}
+.note,figcaption,.src{color:var(--dim);font-size:.88rem}
 .card{background:var(--card);border:1px solid var(--line);border-radius:12px;padding:18px 20px;margin:18px 0}
 .kpi{display:flex;flex-wrap:wrap;gap:14px;margin:18px 0}
 .kpi div{flex:1 1 150px;background:var(--card);border:1px solid var(--line);
          border-radius:12px;padding:14px 16px}
-.kpi b{display:block;font-size:1.5rem;color:var(--sky);line-height:1.3}
+/* 大きい数字をネオンのアクセント色で光らせると、統計の記録ではなく
+   ゲームのスコア表示に見える。数字は本文色にし、アクセントは
+   リンクなど「押せるもの」の合図だけに使う。 */
+.kpi b{display:block;font-size:1.5rem;color:var(--ink);line-height:1.3}
 .kpi span{color:var(--dim);font-size:.85rem}
 table{width:100%;border-collapse:collapse;margin:14px 0;font-variant-numeric:tabular-nums}
 th,td{padding:9px 8px;border-bottom:1px solid var(--line);text-align:right}
@@ -29,15 +41,22 @@ th:first-child,td:first-child{text-align:left}
 th{color:var(--dim);font-weight:600;font-size:.85rem}
 .gap{color:var(--dim)}
 tr.thin td{color:var(--dim);opacity:.72}
-tr.thin td:first-child::after{content:" *";color:var(--sky)}
+tr.thin td:first-child::after{content:" *";color:var(--dim)}
 a{color:var(--sky)}
 footer{margin-top:52px;padding-top:18px;border-top:1px solid var(--line);
        color:var(--dim);font-size:.85rem}
-.follow{display:flex;gap:12px;flex-wrap:wrap;margin:20px 0}
-.follow a{display:inline-block;padding:10px 18px;border:1px solid var(--sky);
-         border-radius:999px;color:var(--sky);text-decoration:none;font-size:.9rem}
-.follow a:hover{background:var(--sky);color:var(--bg)}
+/* 発光する輪郭のカプセルボタンは煽り系サイトの語彙。
+   面で置いた落ち着いたボタンにして、角も丸めすぎない。 */
+.follow{display:flex;gap:10px;flex-wrap:wrap;margin:20px 0}
+.follow a{display:inline-block;padding:10px 16px;border:1px solid var(--line);
+         background:var(--card);border-radius:8px;color:var(--sky);
+         text-decoration:none;font-size:.9rem}
+.follow a:hover{border-color:var(--sky)}
 @media(max-width:520px){.kpi div{flex:1 1 100%}}
+
+.adbox{margin:28px 0}
+.adlabel{display:block;font-size:.72rem;color:var(--dim);letter-spacing:.08em;
+margin-bottom:6px}
 
 .race{background:var(--card);border:1px solid var(--line);border-radius:12px;
       padding:16px 18px;margin:16px 0}
@@ -55,23 +74,20 @@ footer{margin-top:52px;padding-top:18px;border-top:1px solid var(--line);
        border-radius:999px;padding:1px 8px;margin-left:6px;color:var(--dim)}
 .adslot{margin:24px 0;min-height:0}
 .nav{display:flex;gap:12px;flex-wrap:wrap;margin:18px 0}
-.nav a{display:inline-block;padding:9px 16px;border:1px solid var(--sky);
-       border-radius:999px;color:var(--sky);text-decoration:none;font-size:.88rem}
-.nav a:hover{background:var(--sky);color:var(--bg)}
+.nav a{display:inline-block;padding:9px 16px;border:1px solid var(--line);
+       background:var(--card);border-radius:8px;color:var(--sky);
+       text-decoration:none;font-size:.88rem}
+.nav a:hover{border-color:var(--sky)}
 .archive li{margin:6px 0}
-
-.adbox{margin:28px 0}
-.adlabel{display:block;font-size:.72rem;color:var(--dim);letter-spacing:.08em;
-margin-bottom:6px}
 </style>
 <script async src="https://pagead2.googlesyndication.com/pagead/js/adsbygoogle.js?client=ca-pub-3010782230345323" crossorigin="anonymous"></script>
 <script async src="https://www.googletagmanager.com/gtag/js?id=G-JRQX40LQVN"></script>
 <script>window.dataLayer=window.dataLayer||[];function gtag(){dataLayer.push(arguments);}gtag('js',new Date());gtag('config','G-JRQX40LQVN');</script>
 </head><body><div class="wrap">
 <h1>過去の勝率予報</h1>
-<p class="lead">発走前に公開した予報をそのまま残しています（6日分）。</p>
+<p class="lead">発走前に公開した予報をそのまま残しています（7日分）。</p>
 <div class="nav"><a href="../index.html">答え合わせの記録を見る</a></div>
-<ul class="archive"><li><a href='./20260913.html'>2026/9/13(日) の勝率予報</a></li><li><a href='./20260912.html'>2026/9/12(土) の勝率予報</a></li><li><a href='./20260906.html'>2026/9/6(日) の勝率予報</a></li><li><a href='./20260830.html'>2026/8/30(日) の勝率予報</a></li><li><a href='./20260829.html'>2026/8/29(土) の勝率予報</a></li><li><a href='./20260823.html'>2026/8/23(日) の勝率予報</a></li></ul>
+<ul class="archive"><li><a href='./20260919.html'>2026/9/19(土) の勝率予報</a></li><li><a href='./20260913.html'>2026/9/13(日) の勝率予報</a></li><li><a href='./20260912.html'>2026/9/12(土) の勝率予報</a></li><li><a href='./20260906.html'>2026/9/6(日) の勝率予報</a></li><li><a href='./20260830.html'>2026/8/30(日) の勝率予報</a></li><li><a href='./20260829.html'>2026/8/29(土) の勝率予報</a></li><li><a href='./20260823.html'>2026/8/23(日) の勝率予報</a></li></ul>
 <footer><p>本記事の数値は自作の機械学習モデルの出力です。20歳未満の方は馬券を購入できません。</p>
 <p><a href="../about.html">運営者情報</a>　|　<a href="../privacy.html">プライバシーポリシー</a>　|　<a href="../contact.html">お問い合わせ</a></p>
 </footer>

diff --git a/column/running_style.html b/column/running_style.html
@@ -100,13 +100,13 @@ padding:14px 18px;font-size:.92rem;color:var(--dim)}
 <p class="subtitle">レース後にしか分からない条件で分けると、こうなる</p>
 <div class="col">
 <p>「逃げた馬の単勝を買えば回収率239%」。本当の数字ですが、この馬券は買えません。</p>
-<div class='tablewrap'><table class='col-table'><thead><tr><th>脚質</th><th>事前に分かる情報だけ</th><th>レース後に脚質で分けると</th></tr></thead><tbody><tr><td class='label'>逃げ</td><td>79.7%</td><td class='bar'><span class='track'><span class='fill' style='width:95.8%;background:rgb(239,68,67)'></span></span><b style='color:rgb(239,68,67)'>239.4%</b></td></tr><tr><td class='label'>先行</td><td>77.9%</td><td class='bar'><span class='track'><span class='fill' style='width:47.6%;background:rgb(231,190,57)'></span></span><b style='color:rgb(231,190,57)'>118.9%</b></td></tr><tr><td class='label'>差し</td><td>71.3%</td><td class='bar'><span class='track'><span class='fill' style='width:21.1%;background:rgb(113,189,184)'></span></span><b style='color:rgb(113,189,184)'>52.7%</b></td></tr><tr><td class='label'>追込</td><td>58.8%</td><td class='bar'><span class='track'><span class='fill' style='width:7.6%;background:rgb(56,189,248)'></span></span><b style='color:rgb(56,189,248)'>19.0%</b></td></tr></tbody></table></div><p class='note'>右の逃げの優位は約176ポイント。左では+7.6ポイント（95%信頼区間 +0.4〜+15.3）まで縮む</p>
+<div class='tablewrap'><table class='col-table'><thead><tr><th>脚質</th><th>事前に分かる情報だけ</th><th>レース後に脚質で分けると</th></tr></thead><tbody><tr><td class='label'>逃げ</td><td>79.9%</td><td class='bar'><span class='track'><span class='fill' style='width:95.5%;background:rgb(239,69,67)'></span></span><b style='color:rgb(239,69,67)'>238.8%</b></td></tr><tr><td class='label'>先行</td><td>78.1%</td><td class='bar'><span class='track'><span class='fill' style='width:47.7%;background:rgb(231,190,56)'></span></span><b style='color:rgb(231,190,56)'>119.2%</b></td></tr><tr><td class='label'>差し</td><td>71.2%</td><td class='bar'><span class='track'><span class='fill' style='width:21.0%;background:rgb(113,189,185)'></span></span><b style='color:rgb(113,189,185)'>52.6%</b></td></tr><tr><td class='label'>追込</td><td>58.7%</td><td class='bar'><span class='track'><span class='fill' style='width:7.6%;background:rgb(56,189,248)'></span></span><b style='color:rgb(56,189,248)'>18.9%</b></td></tr></tbody></table></div><p class='note'>右の逃げの優位は約175ポイント。左では+7.9ポイント（95%信頼区間 +0.4〜+15.3）まで縮む</p>
 <p>4コーナーで先頭だった馬を買えば儲かる、というのは確かに成り立ちます。ただし「4コーナーで先頭かどうか」が分かるのはレースが始まったあとです。発走前の自分には、どの馬がそうなるか分かりません。</p>
-<p>そこで、事前に分かる情報だけで同じことをやり直しました。その馬の<b>前走までの</b>平均的な位置取りで脚質を決め、今回を買う。3走以上の実績がある馬に限った結果が左の列です。239%は79.7%になりました。同じ母集団の全体は73.6%です。逃げ型とそれ以外の差は+7.6ポイント（95%信頼区間 +0.4〜+15.3）で、わずかに上回ってはいます。ただし後知恵で分けたときの約176ポイント差とは桁が違います。しかもこの残った差では、払戻率の壁は越えられません。</p>
+<p>そこで、事前に分かる情報だけで同じことをやり直しました。その馬の<b>前走までの</b>平均的な位置取りで脚質を決め、今回を買う。3走以上の実績がある馬に限った結果が左の列です。239%は79.9%になりました。同じ母集団の全体は73.6%です。逃げ型とそれ以外の差は+7.9ポイント（95%信頼区間 +0.4〜+15.3）で、わずかに上回ってはいます。ただし後知恵で分けたときの約175ポイント差とは桁が違います。しかもこの残った差では、払戻率の壁は越えられません。</p>
 <p>過去のデータで見つかる「儲かる条件」の多くは、この形をしています。結果を知ってから分け方を決めているので、当然よく見える。見分け方は単純で、<b>その条件は発走前に分かるか</b>と問うだけです。</p>
 <p>同じ落とし穴は他にもあります。「最後の直線で外に出せた馬」「道中で折り合えた馬」「馬場の良いところを通れた馬」。どれも走ってみないと分からないことなので、その条件で分ければ回収率は必ず良く出ます。検証している本人にも、後知恵を使っている自覚が無いことがあるので厄介です。</p>
 <p>前に行く馬が有利なこと自体は本当です。ただし有利さは広く知られていて、逃げそうな馬のオッズにはすでに織り込まれています。残った差がわずかなのは、有利でないからではなく<b>有利さの分だけ値段が上がっているから</b>です。しかも前走で逃げた馬が今回も逃げられるとは限りません。同じレースに逃げたい馬が3頭いれば、実際に逃げられるのは1頭だけです。</p>
-<p>使いどころがあるとすれば、回収率ではなく展開の予想のほうです。出走表を見て前に行きたい馬が何頭いるかを数える作業は、「逃げ馬を買う」より意味があります。この表が言えるのは、脚質というラベルを貼って買うだけではpayoff は動かない、というところまでです。</p>
+<p>使いどころがあるとすれば、回収率ではなく展開の予想のほうです。出走表を見て前に行きたい馬が何頭いるかを数える作業は、「逃げ馬を買う」より意味があります。この表が言えるのは、脚質というラベルを貼って買うだけでは回収率は動かない、というところまでです。</p>
 <h2>集計方法</h2>
 <div class="method">脚質は4コーナー通過順位を出走頭数で割った相対位置で分類（先頭=逃げ、上位30%=先行、70%まで=差し、それ以降=追込）。事前版は同じ計算を前走までの平均で行い、3走以上の馬に限定。</div>
 </div>

diff --git a/index.html b/index.html
@@ -91,7 +91,7 @@ margin-bottom:6px}
 <strong>儲かることを意味しません</strong>。この予報どおりに買っても、控除率のぶん回収率は100%を下回ります。</p>
 
 <div class="follow">
-  <a href="race/20260913.html">最新の勝率予報を見る</a>
+  <a href="race/20260919.html">最新の勝率予報を見る</a>
   <a href="race/index.html">過去の予報一覧</a>
   <a href="column/index.html">データコラム</a>
 </div>
@@ -140,7 +140,7 @@ margin-bottom:6px}
 <div class="adbox"><span class="adlabel">スポンサーリンク</span><ins class="adsbygoogle" style="display:block" data-ad-client="ca-pub-3010782230345323" data-ad-slot="1245965145" data-ad-format="auto" data-full-width-responsive="true"></ins><script>(adsbygoogle=window.adsbygoogle||[]).push({});</script></div>
 <footer>
 <p>本記事の数値は自作の機械学習モデルの出力です。20歳未満の方は馬券を購入できません。</p>
-<p>最終更新 2026/09/13　|　2026/5/17〜2026/9/13（32開催日）</p>
+<p>最終更新 2026/09/19　|　2026/5/17〜2026/9/13（32開催日）</p>
 <p><a href="method.html">予測のしくみ</a>　|　<a href="about.html">運営者情報</a>　|　<a href="privacy.html">プライバシーポリシー</a>　|　<a href="contact.html">お問い合わせ</a></p>
 </footer>
 </div></body></html>
